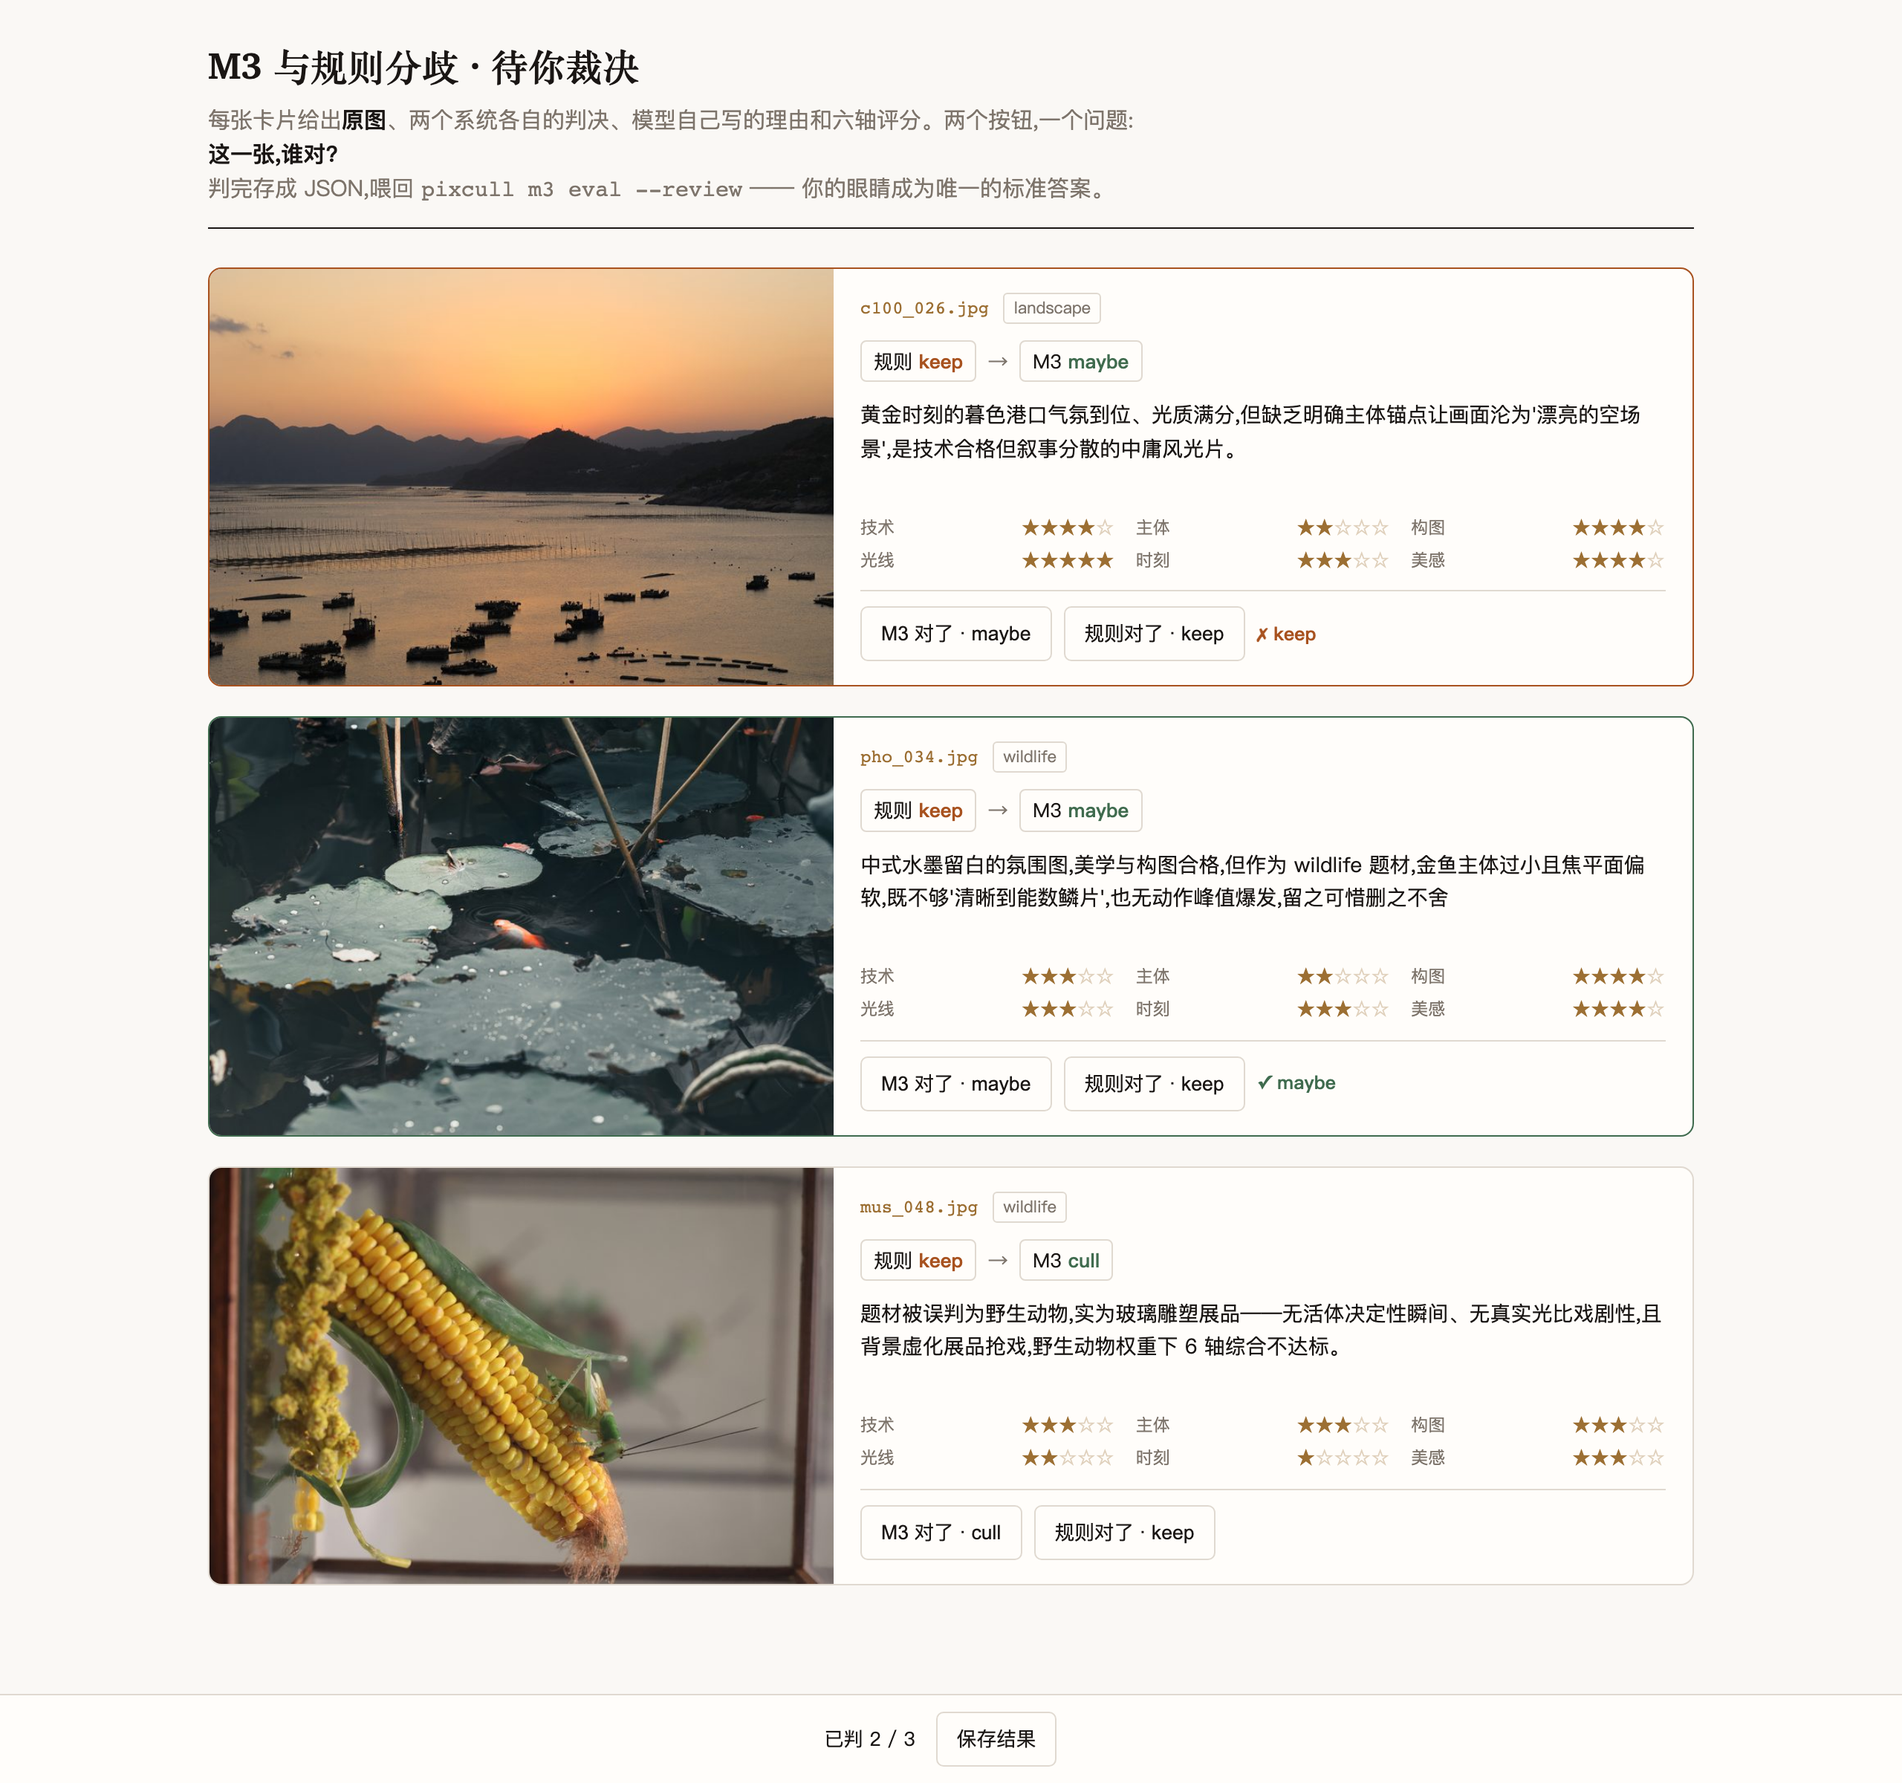
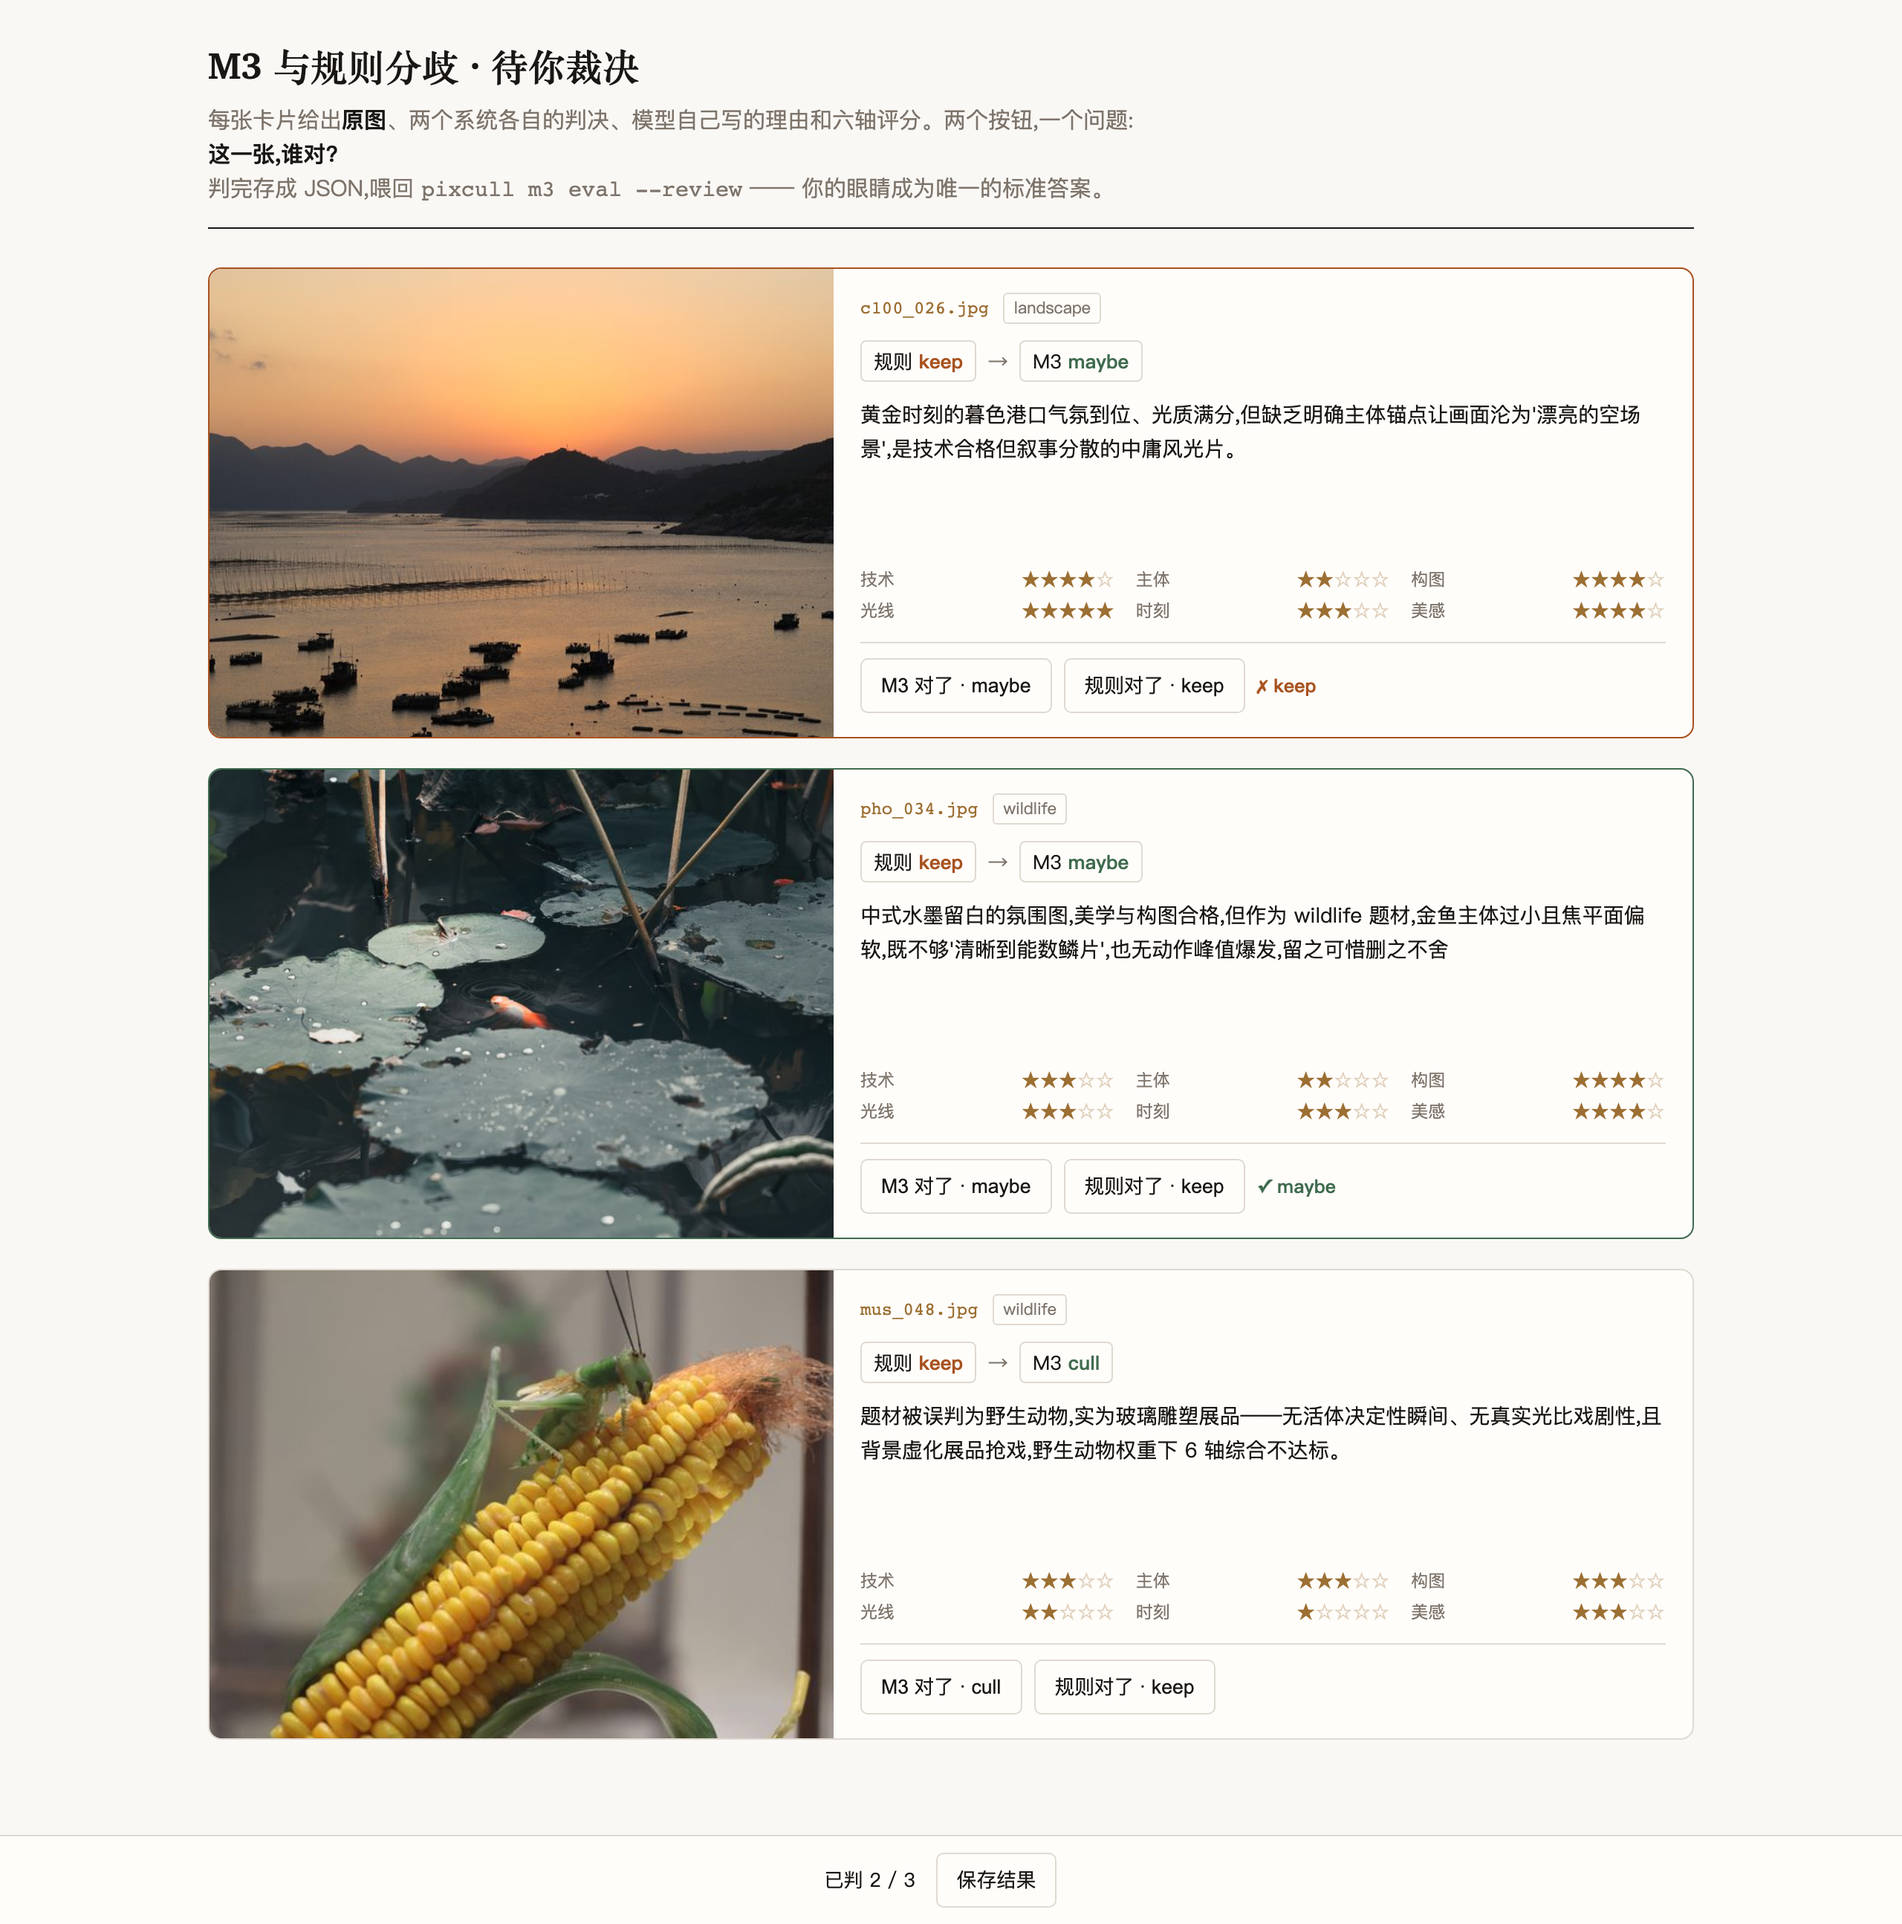
v2.57-P0-1/P0-4: publish the blind number, re-shoot the screenshot
The READMEs quoted the disagreement-sampled passes, which the blind
measurement supersedes. Both now lead with the number that matters: on
the 10 frames the photographer would delete, the rule stack finds 2,
`primary` 1, `rescue` 0, and both intervals span zero. The rule also
culls 53 of 150 against the photographer's 10.

Also stated, because it falls out of the same data: the detector flags
do not predict this photographer's culls (`no_clear_subject` at 0.9x
baseline, `severely_blurry` and `severely_underexposed` at 0x, and
frames with NO flag the most-culled group), and the culled frames are
sharper and cleaner than average. Editorially weak, not defective.

Both READMEs now carry the three commands that reproduce this on any
library, and say what the eval refuses to rank rather than only what it
reports.

**Screenshot 24 re-shot** — one of its three frames is Orientation 8 and
the published image had it on its side, since the capture predates
v2.56.2.

Re-shooting it surfaced a layout bug the orientation bug had been
hiding: a portrait thumbnail rendered at its true aspect stretched the
card to ~630px with a void beside the text. `max-height` did not fix it
— `height:100%` inside an auto-height grid row resolves to auto, so the
row was sized by the image's intrinsic height and the cap never bound.
The thumbnail now has a pinned 4:3 ratio, so every card is the same
height and `cover` centre-crops a tall frame.
[…]

diff --git a/pixcull/report/review_sheet.py b/pixcull/report/review_sheet.py
@@ -155,7 +155,16 @@ h1{font:600 25px/1.3 Charter,"Songti SC",serif;margin:0 0 8px}
 border:1px solid var(--line);border-radius:9px;overflow:hidden;
 display:grid;grid-template-columns:minmax(0,420px) 1fr}
 @media(max-width:820px){.card{grid-template-columns:1fr}}
-.card img{width:100%;height:100%;object-fit:cover;display:block;background:#000}
+/* v2.57 — fixed aspect, not `height:100%`. Once EXIF orientation was
+   honoured, portrait frames rendered at their true aspect and stretched
+   the card to ~630px with a void beside the text; the bug had been
+   hiding the layout problem.
+   `max-height` did not fix it: `height:100%` inside an auto-height grid
+   row resolves to auto, so the row was sized by the image's intrinsic
+   height and the cap never bound. Pinning the ratio makes every card the
+   same height and lets `cover` centre-crop a tall frame. */
+.card img{width:100%;aspect-ratio:4/3;height:auto;object-fit:cover;
+display:block;background:#000}
 .meta{padding:16px 18px;display:flex;flex-direction:column;gap:11px}
 .hd{display:flex;gap:10px;align-items:baseline}
 .hd code{font:12px ui-monospace,monospace;color:var(--brass)}

diff --git a/README.md b/README.md
@@ -969,43 +969,59 @@ two already judged, one still open](docs/screenshots/24-review-sheet.png)
 
 ### What it found
 
-Two passes, **51 frames** judged by the photographer against the model.
+Three passes, and the third one is the only one that can be trusted.
 
-**Pass 1 — the rescues.** 18 frames the rule stack hard-culled and M3
-kept: the owner **agreed with M3 on 17**. M3 is very good at rescuing a
-frame the detectors wrongly discard, because it was handed the blink
-count and the sharpness variance and chose to overrule them anyway.
+**Passes 1–2 (51 frames) sampled where the two systems disagreed.** That
+measures the rule stack only on rows it is already arguing about, so it
+flatters whichever side you point it at. It did establish one thing by
+direction: M3 was right on 7 of 7 frames it promoted out of a cull, and
+on 8 of 19 it wanted to cull from a keep — reliable at rescuing,
+unreliable at condemning.
 
-**Pass 2 — everything else.** 40 frames sampled across the remaining
-disagreements, with all 19 of the highest-stakes ones taken whole. The
-result splits cleanly by direction:
+**Pass 3 was blind.** 150 frames from an untouched card, labelled with
+the photograph, a serial number and two buttons on screen and nothing
+else — then scored, in that order, so the labels cannot echo any system.
+The photographer marked 10 for deletion:
 
-| M3 wants to… | it was right |
+| on the 10 frames the photographer would delete | found |
 |---|---|
-| promote a frame the rules condemned (`cull →` keep/maybe) | **7 of 7** |
-| demote a `maybe` to `cull` | **3 of 3** |
-| soften a `keep` to `maybe` | 6 of 11 |
-| **cull a frame the rules kept** | **8 of 19** |
+| the rule stack | **2** |
+| `vlm_authority=primary` | 1 |
+| `vlm_authority=rescue` | 0 |
 
-**M3 is reliable at rescuing and unreliable at condemning.** On the one
-move that destroys a photograph — culling a keeper — it is worse than a
-coin flip. So the evidence buys exactly one power, and that is what
-`--vlm-authority rescue` grants: it may overturn a hard cull, and it may
-not touch anything else.
+Both authority modes' macro-F1 deltas have 95% confidence intervals
+spanning zero. The rule stack also culls **53 of 150 while the
+photographer culls 10** — over-culling by 5.3x.
 
-### What it does not yet establish
+**So: the headline job is not solved, by the rules or by the model.**
+`vlm_authority` stays `off`, and this section will keep saying so until
+a blind pass says otherwise.
 
-Both passes sampled **where the two systems disagreed**, which measures
-the rule stack only on the rows it is arguing about. On that sample M3
-looks far better than it does on the full set; on the full set 87% of the
-labels are still the rule stack's own decisions, so any change scores as
-an error. **Neither number can pick a default** — one is biased toward
-the rule, the other toward the model, and `pixcull m3 eval` now says so
-rather than printing the flattering one.
+Two things that fall out of the same data, both uncomfortable:
 
-`pixcull m3 review --only random` builds the sample that can: rows drawn
-without regard to whether the systems agree. Until that is labelled,
-`vlm_authority` stays `off` by default.
+* **The detector flags do not predict this photographer's culls.**
+  Against a 6.7% baseline: `no_clear_subject` 6.0% (0.9x — worse than
+  chance), `severely_underexposed` 0%, `severely_blurry` 0%. Frames
+  carrying **no flag at all** are the most-culled group, at 8.3%.
+* **The culled frames are not defective.** They are sharper than
+  average, pass technical checks more often, and none are in a burst.
+  The one discriminator is composition. This photographer deletes
+  editorially weak pictures — which is what a detector cannot see and
+  what the model was supposed to be for.
+
+### How to reproduce this on your own library
+
+```bash
+pixcull m3 label --folder /path/to/shoot --limit 150   # blind, free
+pixcull run /path/to/shoot --output run/ --vlm-mode off
+pixcull m3 eval --labels ~/Downloads/blind-review.json --scores run/scores.csv
+```
+
+The eval refuses to rank a sample that cannot support a ranking: labels
+copied from the rule stack, a sample with no `cull` ground truth, an
+authority mode that never fired, or an interval that spans zero each
+produce a named refusal instead of a number.
+
 
 ## Screenshots
 

diff --git a/modelscope/README.md b/modelscope/README.md
@@ -820,34 +820,46 @@ pixcull m3 eval --labels labels.csv --scores run/scores.csv \
 ![分歧复核页 —— 三张 M3 与规则栈判决不同的照片,各自带模型自己写的理由和
 六轴评分,两张已判、一张待判](docs/screenshots/24-review-sheet.png)
 
-**两轮复核,摄影师亲手判了 51 帧。**
+**三轮复核,只有第三轮的数字可信。**
 
-**第一轮 —— 救片。** 18 张被规则栈硬性剔除、被 M3 保留的照片,owner
-**17 张同意 M3**。M3 很擅长救回检测器误杀的帧 —— 它拿到了闭眼计数和
-清晰度方差,仍然选择推翻它们。
+**第一、二轮(51 帧)抽的是「两个系统有分歧」的行。** 那等于只在规则栈
+已经在争论的地方考它,指向哪边就偏袒哪边。它确实按方向确立了一件事:
+M3 把规则判死的救上来,7 张对 7 张;想把规则想留的砍掉,19 张只对 8 张
+—— **救片可靠,砍片不可靠**。
 
-**第二轮 —— 其余分歧。** 从剩下的分歧里抽 40 张,其中风险最高的 19 张
-全部取走。结果按方向分得非常干净:
+**第三轮是盲标。** 从一张没碰过的卡里取 150 帧,屏幕上只有照片、一个序号
+和两个按钮,判完再评分 —— 顺序如此,标注就不可能回声任何系统。摄影师标了
+10 张该删:
 
-| M3 想做的事 | 它判对了 |
+| 你想删的那 10 张,找到了几张 | |
 |---|---|
-| 把规则判死的救上来(`cull →` keep/maybe) | **7 / 7** |
-| 把 `maybe` 降为 `cull` | **3 / 3** |
-| 把 `keep` 软化成 `maybe` | 6 / 11 |
-| **把规则想留的片砍掉** | **8 / 19** |
+| 规则栈 | **2** |
+| `vlm_authority=primary` | 1 |
+| `vlm_authority=rescue` | 0 |
 
-**M3 救片可靠,砍片不可靠。** 在唯一会毁掉照片的那个动作上 —— 砍掉一张
-留片 —— 它比抛硬币还差。所以证据只买到一项权力,`--vlm-authority rescue`
-给的就是这一项:**可以推翻硬性剔除,其余一概无权干涉。**
+两个模式的 macro-F1 差值,95% 置信区间都跨零。规则栈同时**判了 53 张 cull
+而摄影师只删 10 张 —— 过删 5.3 倍**。
 
-### 这还不能证明什么
+**所以:头号任务没有解决,规则没解决,模型也没有。** `vlm_authority` 保持
+`off`,这一节会一直这么写,直到某次盲标说了别的。
 
-两轮抽的都是**两个系统有分歧的行**,等于只在规则栈最吃力的地方考它。
-在这个样本上 M3 看着远好于实际;而在全量 408 行上,87% 的标签仍是规则栈
-自己的判决,模型改动任何一行都自动记错。**两个数字都定不了默认值** ——
-一个偏袒规则,一个偏袒模型,`pixcull m3 eval` 现在会直说,而不是把好看的
-那个印出来。
+同一批数据还带出两件不好听的事:
 
-`pixcull m3 review --only random` 生成能定论的那种样本:不看两边是否一致
-随机抽行。在它被标注完之前,`vlm_authority` 默认保持 `off`。
+- **检测器 flag 不预测这位摄影师的删除。** 基线 6.7% 之下:
+  `no_clear_subject` 命中 6.0%(0.9×,不如瞎猜)、`severely_underexposed`
+  0%、`severely_blurry` 0%。而**完全没有 flag** 的那组删除率最高,8.3%。
+- **被删的不是废片。** 它们比平均更锐、技术检查通过率更高、没有一张在连拍
+  组里。唯一的判别量是构图。**这位摄影师删的是编辑上弱的照片** —— 检测器
+  看不见,而模型本该补上这一块。
 
+### 在你自己的库上复现
+
+```bash
+pixcull m3 label --folder /path/to/shoot --limit 150   # 盲标,不花钱
+pixcull run /path/to/shoot --output run/ --vlm-mode off
+pixcull m3 eval --labels ~/Downloads/blind-review.json --scores run/scores.csv
+```
+
+支撑不了排名的样本,eval 会拒绝排名:标注抄自规则栈、样本里没有 `cull`
+正例、某个模式一次都没触发、置信区间跨零 —— 每一种都给出一个具名的拒绝,
+而不是一个数字。
